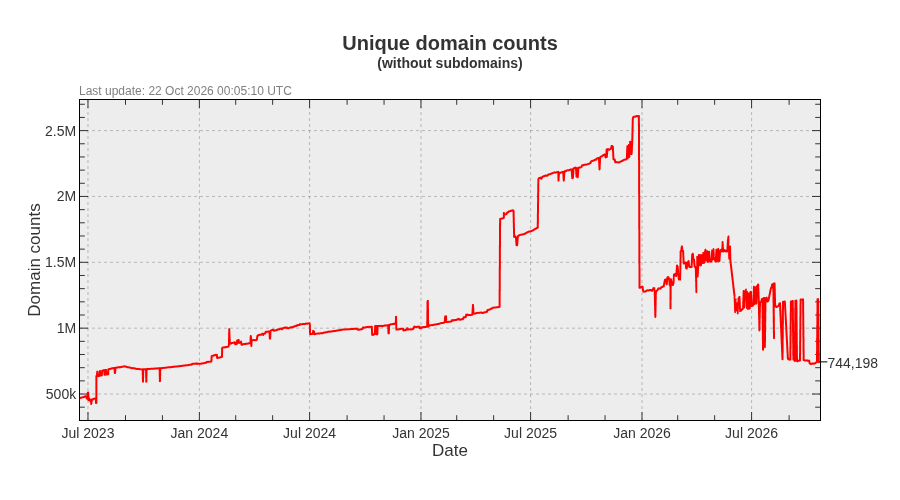
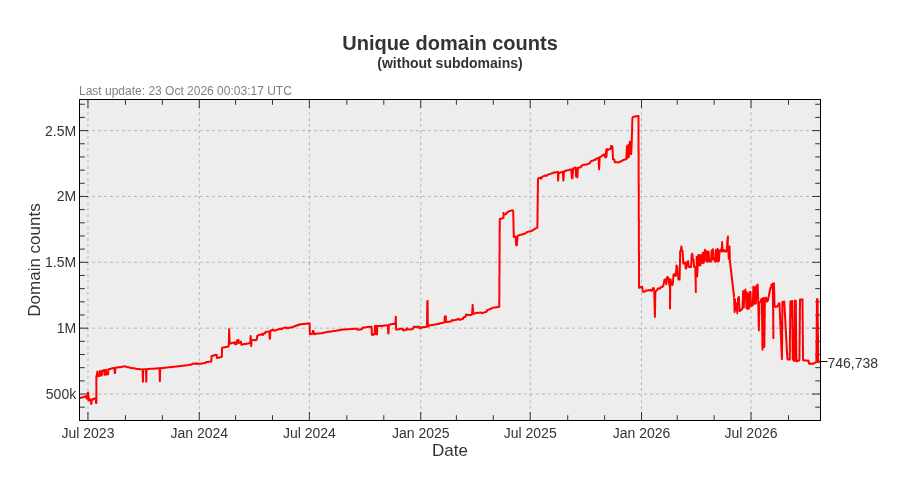
Update pages

diff --git a/README.md b/README.md
@@ -3,22 +3,22 @@ A blocklist file for blocking ads, trackers and malware domains.
 
[1 lines of base64/hex data omitted]
 
-- Unique domains: 1,465,993
-- Without subdomains: 744,198
-- Last update: 22 Oct 2026 00:05:10 UTC
-- Version: 2026.10.22.01
+- Unique domains: 1,468,047
+- Without subdomains: 746,738
+- Last update: 23 Oct 2026 00:03:17 UTC
+- Version: 2026.10.23.01
 
 
 ## Downloads:
 
 | Format             | Domain count      | Download Link |
 |------------------ | -----------------|-------------|
-| *Adblock Plus*     | 744,198 | [bad-hosts-abp](https://dl.cenk.app/bad-hosts/bad-hosts-abp) |
-| *Wildcard domains* | 744,198 | [bad-hosts-wildcard](https://dl.cenk.app/bad-hosts/bad-hosts-wildcard) |
-| *dnsmasq*          | 744,198 | [bad-hosts-dnsmasq](https://dl.cenk.app/bad-hosts/bad-hosts-dnsmasq) |
-| *hosts*            | 1,465,993 | [hosts](https://dl.cenk.app/bad-hosts/hosts) |
-| *hosts (ipv6)*     | 1,465,993 | [hosts-ipv6](https://dl.cenk.app/bad-hosts/hosts-ipv6) |
-| *Plain domains*    | 1,465,993 | [bad-hosts-domains](https://dl.cenk.app/bad-hosts/bad-hosts-domains) |
+| *Adblock Plus*     | 746,738 | [bad-hosts-abp](https://dl.cenk.app/bad-hosts/bad-hosts-abp) |
+| *Wildcard domains* | 746,738 | [bad-hosts-wildcard](https://dl.cenk.app/bad-hosts/bad-hosts-wildcard) |
+| *dnsmasq*          | 746,738 | [bad-hosts-dnsmasq](https://dl.cenk.app/bad-hosts/bad-hosts-dnsmasq) |
+| *hosts*            | 1,468,047 | [hosts](https://dl.cenk.app/bad-hosts/hosts) |
+| *hosts (ipv6)*     | 1,468,047 | [hosts-ipv6](https://dl.cenk.app/bad-hosts/hosts-ipv6) |
+| *Plain domains*    | 1,468,047 | [bad-hosts-domains](https://dl.cenk.app/bad-hosts/bad-hosts-domains) |
 
 ## Domain count history
 ### With subdomains
